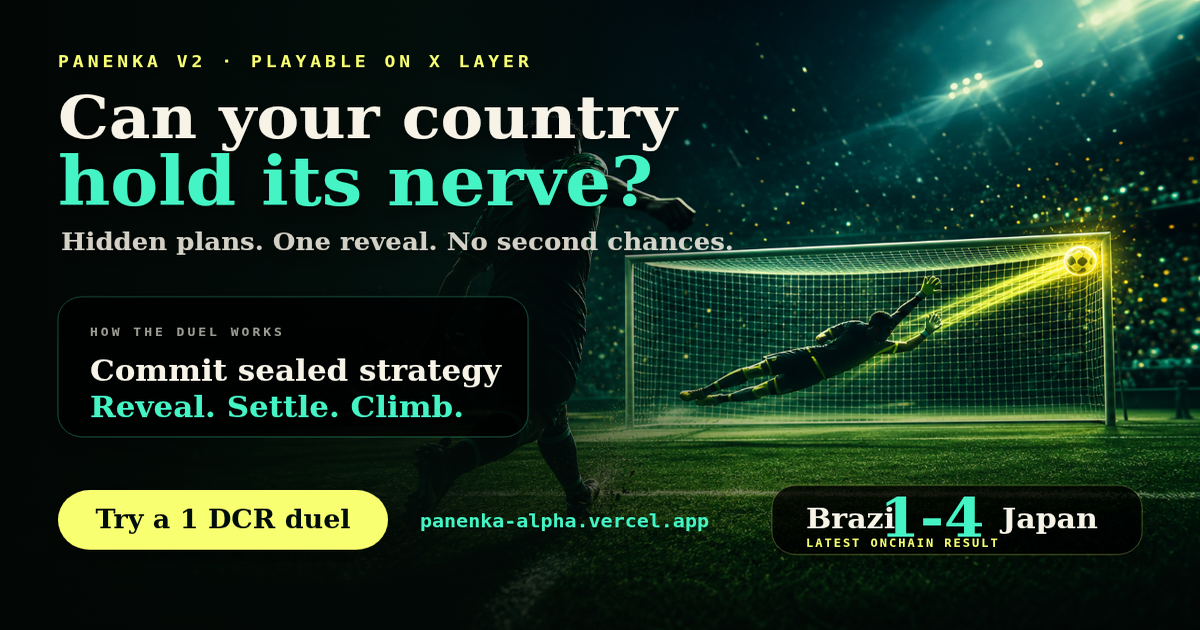
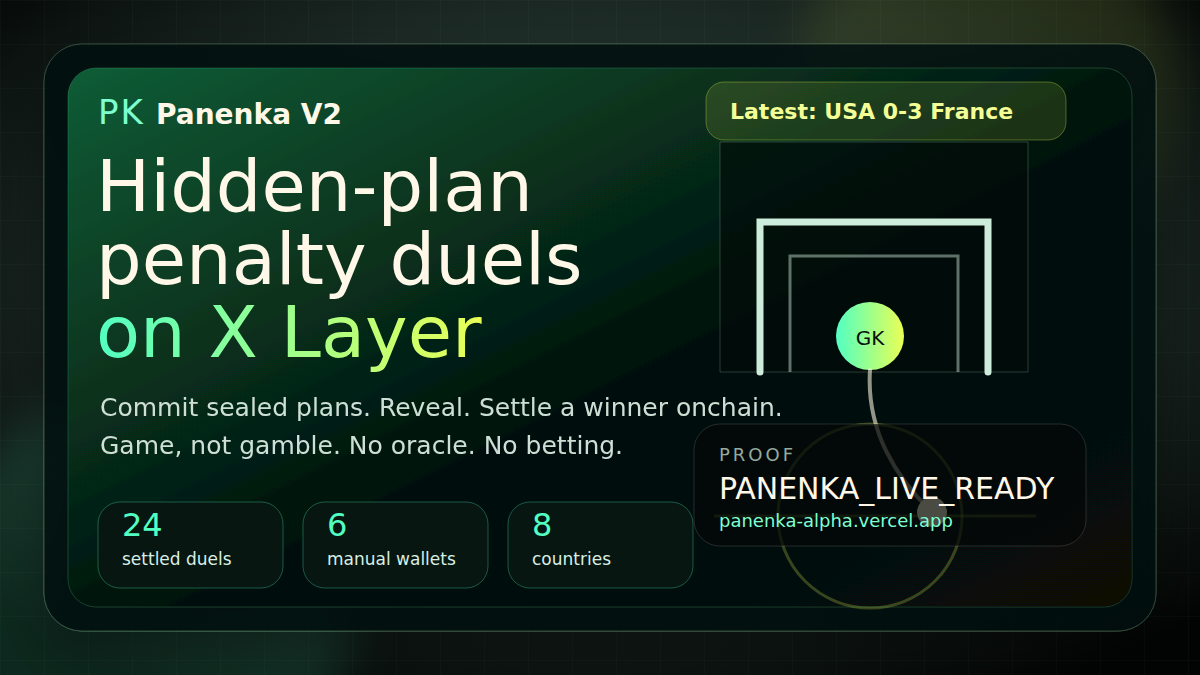
Refresh Panenka launch proof card

diff --git a/api/proof.ts b/api/proof.ts
@@ -32,6 +32,10 @@ const KNOWN_SETTLEMENT_TXS: Record<string, string> = {
[7 lines of base64/hex data omitted]
 };
 const EXHIBITION_WALLETS = new Set(
   [

diff --git a/app/index.html b/app/index.html
@@ -19,7 +19,7 @@
     />
     <meta property="og:image" content="https://panenka-alpha.vercel.app/panenka-card.png" />
     <meta property="og:image:width" content="1200" />
-    <meta property="og:image:height" content="630" />
+    <meta property="og:image:height" content="675" />
     <meta property="og:image:alt" content="Panenka onchain penalty duels on X Layer" />
     <meta property="og:type" content="website" />
     <meta name="twitter:card" content="summary_large_image" />